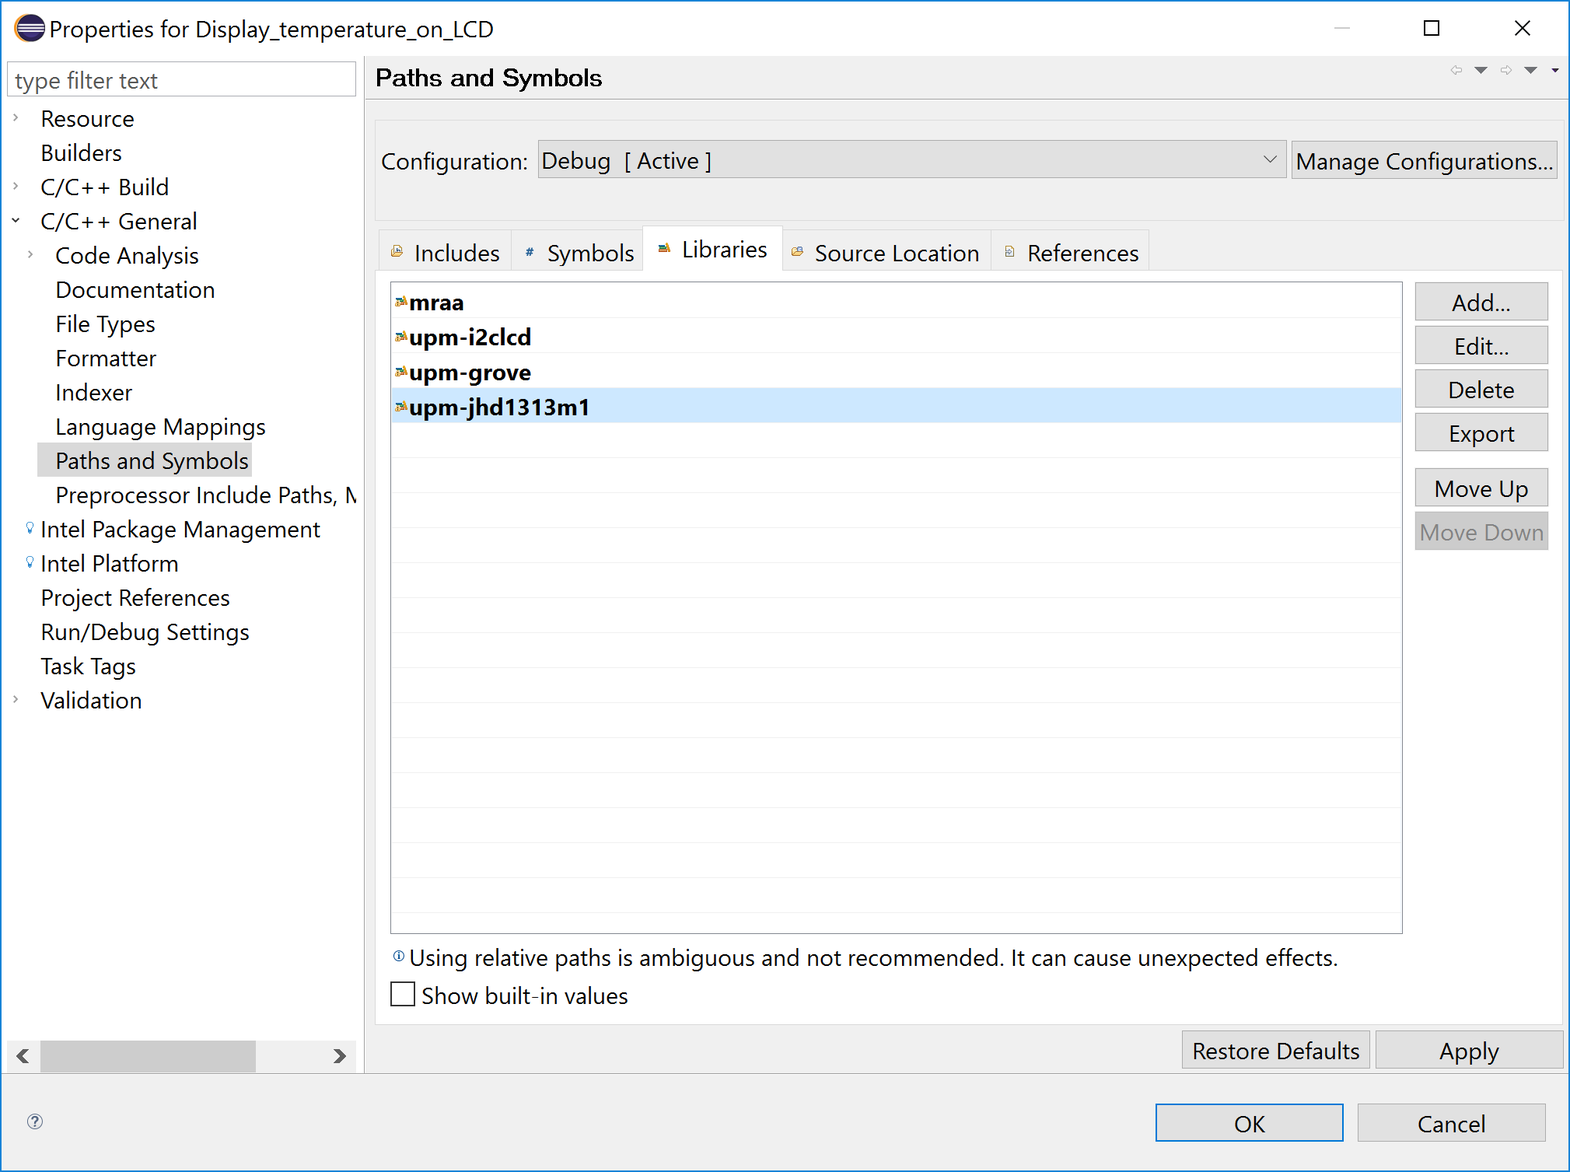
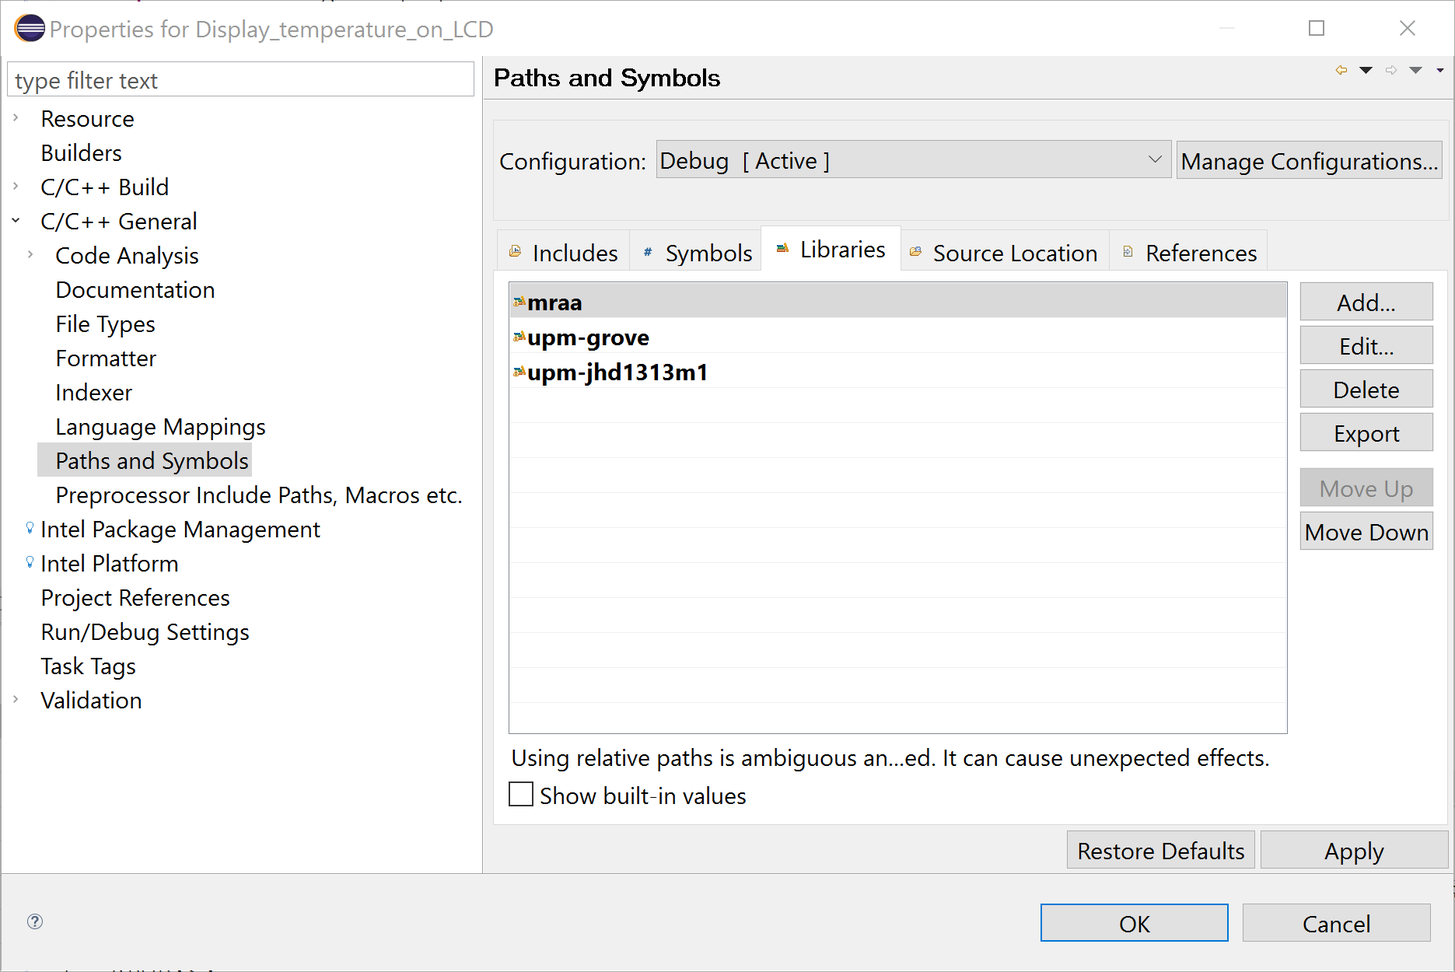
LCD updates and updates to Additional Resources in C++ and JavaScript labs

diff --git a/app/views/labs/sensors-javascript/index.html b/app/views/labs/sensors-javascript/index.html
@@ -423,7 +423,7 @@ monitor();</pre></ui-codemirror>
 
                         <li>
                             <p>Similar to using <code>require('jsupm_grove')</code> to include the JavaScript UPM library for the basic Grove components, <strong>include the UPM library for I2C-type LCDs</strong>:</p>
-                            <p><code>var LCD = require('jsupm_i2clcd');</code></p>
+                            <p><code>var LCD = require('jsupm_jhd1313m1');</code></p>
                         </li>
 
                         <li>
@@ -465,7 +465,7 @@ monitor();</pre></ui-codemirror>
                             <p>Below is an example of the final solution.</p>
                             <ui-codemirror ui-codemirror-opts="editorOptions"><pre class="brush:jscript;">// Include the JavaScript UPM libraries
 var groveSensor = require('jsupm_grove');
-var LCD = require("jsupm_i2clcd"); // Create a new instance of a Grove Temperature Sensor
+var LCD = require("jsupm_jhd1313m1"); // Create a new instance of a Grove Temperature Sensor
 var temp = new groveSensor.GroveTemp(0); // Create a new instance of a Grove RGB LCD screen
 var screen = new LCD.Jhd1313m1(0, 0x3E, 0x62);
 
@@ -532,7 +532,7 @@ monitor();</pre></ui-codemirror>
                     <ui-codemirror ui-codemirror-opts="editorOptions"><pre class="brush:jscript;">"use strict";
 var accelerometer = require("jsupm_mma7660");
 var accel = new accelerometer.MMA7660(0, 76),
-    screen = new(require("jsupm_i2clcd").Jhd1313m1)(6, 0x3E, 0x62); // enable 64 samples every 10 seconds
+    screen = new(require("jsupm_jhd1313m1").Jhd1313m1)(6, 0x3E, 0x62); // enable 64 samples every 10 seconds
 accel.setModeStandby();
 accel.setSampleRate(10);
 accel.setModeActive();
@@ -680,87 +680,70 @@ main();</pre></ui-codemirror>
                 </div>
             </div>
 
-            <div ibox title="Additional resources">
+            <div ibox collapse title="Additional resources">
+                <p>Information, community forums, articles, tutorials and more can be found at the <a href="https://software.intel.com/iot">Intel Developer Zone</a>.</p>
                 <p>For reference code for any sensor/actuator from the Grove Kit, visit <a href="https://software.intel.com/en-us/iot/hardware/sensors">https://software.intel.com/en-us/iot/hardware/sensors</a></p>
 
-                <h4>Grove Temperature Sensor</h4>
-
+                <h4>Sensors and Actuators APIs - UPM API Doxygen Reference</h4>
                 <ul>
-                    <li>
-                        <a href="http://www.seeedstudio.com/wiki/Grove_-_Temperature_Sensor_V1.2" target="_blank">Seeed Studio Wiki: Grove Temperature Sensor</a>
-                    </li>
-                    <li>
-                        <a href="http://iotdk.intel.com/docs/master/upm/node/classes/grovetemp.html#methods" target="_blank">UPM API - GroveTemp</a>
-                    </li>
-                    <li>
-                        <a href="https://github.com/intel-iot-devkit/upm/blob/master/examples/javascript/grovetemp.js" target="_blank">UPM JavaScript example: Grove Temperature Sensor</a>
-                    </li>
+                  <li><a href="https://iotdk.intel.com/docs/master/upm/">C++ Sensor/Actuator API libmraa (v1.5.1) and UPM (v1.0.2)</a></li>
+                  <li><a href="https://iotdk.intel.com/docs/master/upm/java/">Java Sensor/Actuator API libmraa (v1.5.1) and UPM (v1.0.2)</a></li>
+                  <li><a href="https://iotdk.intel.com/docs/master/upm/python/">Python Sensor/Actuator API libmraa (v1.5.1) and UPM (v1.0.2)</a></li>
+                  <li><a href="https://iotdk.intel.com/docs/master/upm/node/">NodeJS Sensor/Actuator API libmraa (v1.5.1) and UPM (v1.0.2)</a></li>
+                </ul>
+
+
+                <h4>Information on Sensors and Actuators</h4>
+                <ul>
+                  <li><a href="http://www.seeedstudio.com/wiki/Grove_-_Temperature_Sensor_V1.2">Seeed Studio Wiki: Grove Temperature Sensor</a></li>
+                  <li><a href="http://iotdk.intel.com/docs/master/upm/node/classes/grovetemp.html#methods">UPM API - GroveTemp</a></li>
+                  <li><a href="https://github.com/intel-iot-devkit/upm/blob/master/examples/c%2B%2B/grovetemp.cxx">UPM C++ example: Grove Temperature Sensor</a></li>
+                  <li><a href="https://github.com/intel-iot-devkit/upm/blob/master/examples/javascript/grovetemp.js">UPM JavaScript example: Grove Temperature Sensor</a></li>
+                </ul>
+
+
+                <h4>Grove Temperature Sensor</h4>
+                <ul>
+                  <li><a href="http://www.seeedstudio.com/wiki/Grove_-_Temperature_Sensor_V1.2" >Seeed Studio Wiki: Grove Temperature Sensor</a></li>
+                  <li><a href="http://iotdk.intel.com/docs/master/upm/node/classes/grovetemp.html#methods" >UPM API - GroveTemp</a></li>
+                  <li><a href="https://github.com/intel-iot-devkit/upm/blob/master/examples/c%2B%2B/grovetemp.cxx" >UPM C++ example: Grove Temperature Sensor</a></li>
+                  <li><a href="https://github.com/intel-iot-devkit/upm/blob/master/examples/javascript/grovetemp.js" >UPM JavaScript example: Grove Temperature Sensor</a></li>
                 </ul>
 
                 <h4>Grove LCD RGB Backlight</h4>
-
                 <ul>
-                    <li>
-                        <a href="http://www.seeedstudio.com/wiki/Grove_-_LCD_RGB_Backlight" target="_blank">Seeed Studio Wiki: LCD RGB Backlight</a>
-                    </li>
-                    <li>
-                        <a href="http://iotdk.intel.com/docs/master/upm/node/classes/lcd.html#methods" target="_blank">UPM API - i2clcd</a>
-                    </li>
-                    <li>
-                        <a href="http://iotdk.intel.com/docs/master/upm/node/classes/jhd1313m1.html#methods" target="_blank">UPM API - Jhd1313m1</a>
-                    </li>
-                    <li>
-                        <a href="https://github.com/intel-iot-devkit/upm/blob/master/examples/javascript/jhd1313m1-lcd.js" target="_blank">UPM JavaScript example: RGB LCD</a>
-                    </li>
+                  <li><a href="http://www.seeedstudio.com/wiki/Grove_-_LCD_RGB_Backlight" ``>Seeed Studio Wiki: LCD RGB Backlight</a></li>
+                  <li><a href="http://iotdk.intel.com/docs/master/upm/node/classes/lcd.html#methods" >UPM API - i2clcd</a></li>
+                  <li><a href="http://iotdk.intel.com/docs/master/upm/node/classes/jhd1313m1.html#methods" >UPM API Doxygen - Jhd1313m1</a></li>
+                  <li><a href="https://github.com/intel-iot-devkit/upm/blob/master/examples/c%2B%2B/jhd1313m1-lcd.cxx" >UPM API - Jhd1313m1</a></li>
+                  <li><a href="https://github.com/intel-iot-devkit/upm/blob/master/examples/javascript/jhd1313m1-lcd.js" >C++ example: RGB LCD</a></li>
                 </ul>
-
+            <!--
                 <h4>Accelerometer</h4>
                 <ul>
-                    <li>
-                        <a href="https://github.com/intel-iot-devkit/upm/blob/master/examples/javascript/mma7660.js">UPM JavaScript example: Accelerometer</a>
-                    </li>
-                    <li>
-                        <a href="http://www.seeedstudio.com/wiki/Grove_-_3-Axis_Digital_Accelerometer(%C2%B11.5g)">Seeed Studio Wiki: 3-Axis Digital Accelerometer</a>
-                    </li>
+                  <li><a href="https://github.com/intel-iot-devkit/upm/blob/master/examples/c%2B%2B/mma7660.cxx">UPM C++ example: Accelerometer</a></li>
+                  <li><a href="https://github.com/intel-iot-devkit/upm/blob/master/examples/javascript/mma7660.js">UPM JavaScript example: Accelerometer</a></li>
+                  <li><a href="http://www.seeedstudio.com/wiki/Grove_-_3-Axis_Digital_Accelerometer(%C2%B11.5g)">Seeed Studio Wiki: 3-Axis Digital Accelerometer</a></li>
                 </ul>
 
                 <h4>Rotary Angle Sensor</h4>
                 <ul>
-                    <li>
-                        <a href="https://github.com/intel-iot-devkit/upm/blob/master/examples/javascript/groverotary.js">UPM JavaScript example: Rotary Angle Sensor</a>
-                    </li>
-                    <li>
-                        <a href="http://www.seeedstudio.com/wiki/Grove_-_Rotary_Angle_Sensor">Seeed Studio Wiki: Rotary Angle Sensor</a>
-                    </li>
-                </ul>
+                  <li><a href="https://github.com/intel-iot-devkit/upm/blob/master/examples/javascript/groverotary.js">UPM JavaScript example: Rotary Angle Sensor</a></li>
+                  <li><a href="http://www.seeedstudio.com/wiki/Grove_-_Rotary_Angle_Sensor">Seeed Studio Wiki: Rotary Angle Sensor</a><li>
+                </ul> -->
 
                 <h4>Grove Button</h4>
                 <ul>
-                    <li>
-                        <a href="https://github.com/intel-iot-devkit/upm/blob/master/examples/javascript/grovebutton.js">UPM JavaScript example: Grove Button</a>
-                    </li>
-                    <li>
-                        <a href="http://www.seeedstudio.com/wiki/Grove_-_Button">Seeed Studio Wiki: Grove Button</a>
-                    </li>
+                  <li><a href="https://github.com/intel-iot-devkit/upm/blob/master/examples/javascript/grovebutton.js">UPM JavaScript example: Grove Button</a></li>
+                  <li><a href="http://www.seeedstudio.com/wiki/Grove_-_Button">Seeed Studio Wiki: Grove Button</a></li>
                 </ul>
 
-                <h4>Grove Buzzer</h4>
+                <!-- <h4>Grove Buzzer</h4>
                 <ul>
-                    <li>
-                        <a href="https://github.com/intel-iot-devkit/upm/blob/master/examples/javascript/buzzer.js">UPM JavaScript example: Buzzer</a>
-                    </li>
-                    <li>
-                        <a href="http://www.seeedstudio.com/wiki/Grove_-_Buzzer">Seeed Studio Wiki: Grove Buzzer</a>
-                    </li>
-                </ul>
-
-                <h4>JavaScript Libraries</h4>
-                <ul>
-                    <li><a href="http://expressjs.com/starter/hello-world.html">Express Hello World</a></li>
-                    <li><a href="http://momentjs.com/docs/">MomentJS</a></li>
-                </ul>
-            </div>
-        </div>
+                  <li><a href="https://github.com/intel-iot-devkit/upm/blob/master/examples/javascript/buzzer.js">UPM JavaScript example: Buzzer</a></li>
+                  <li><a href="http://www.seeedstudio.com/wiki/Grove_-_Buzzer">Seeed Studio Wiki: Grove Buzzer</a></li>
+                </ul> -->
+            </div>        </div>
     </div>
   </div>
 </div>

diff --git a/app/views/labs/sensors-c/index.html b/app/views/labs/sensors-c/index.html
@@ -127,8 +127,8 @@
                 <ol>
                   <li>Go to <b>C/C++ General</b> --> <b>Paths and Symbols</b></li>
                   <li>Then click on the <b>Libraries</b> tab.</p></li>
-                  <li>Click on the Add button that is to the right</li>
-                  <li>type <b>upm-jhd1313m1</b></li>
+                  <li>Click on the Add button that is to the right and type <b>upm-jhd1313m1</b></li>
+                  <li>Next, be sure to delete the upm-i2clcd driver</li>
                   <li>Press <b>OK</b> until you are back at the main interface</li>
                 </ol>
               </div>
@@ -162,84 +162,68 @@
             </div>
 
             <div ibox collapse title="Additional resources">
+                <p>Information, community forums, articles, tutorials and more can be found at the <a href="https://software.intel.com/iot">Intel Developer Zone</a>.</p>
                 <p>For reference code for any sensor/actuator from the Grove Kit, visit <a href="https://software.intel.com/en-us/iot/hardware/sensors">https://software.intel.com/en-us/iot/hardware/sensors</a></p>
 
-                <h4>Grove Temperature Sensor</h4>
-
+                <h4>Sensors and Actuators APIs - UPM API Doxygen Reference</h4>
                 <ul>
-                    <li>
-                        <a href="http://www.seeedstudio.com/wiki/Grove_-_Temperature_Sensor_V1.2" target="_blank">Seeed Studio Wiki: Grove Temperature Sensor</a>
-                    </li>
-                    <li>
-                        <a href="http://iotdk.intel.com/docs/master/upm/node/classes/grovetemp.html#methods" target="_blank">UPM API - GroveTemp</a>
-                    </li>
-                    <li>
-                        <a href="https://github.com/intel-iot-devkit/upm/blob/master/examples/javascript/grovetemp.js" target="_blank">UPM JavaScript example: Grove Temperature Sensor</a>
-                    </li>
+                  <li><a href="https://iotdk.intel.com/docs/master/upm/">C++ Sensor/Actuator API libmraa (v1.5.1) and UPM (v1.0.2)</a></li>
+                  <li><a href="https://iotdk.intel.com/docs/master/upm/java/">Java Sensor/Actuator API libmraa (v1.5.1) and UPM (v1.0.2)</a></li>
+                  <li><a href="https://iotdk.intel.com/docs/master/upm/python/">Python Sensor/Actuator API libmraa (v1.5.1) and UPM (v1.0.2)</a></li>
+                  <li><a href="https://iotdk.intel.com/docs/master/upm/node/">NodeJS Sensor/Actuator API libmraa (v1.5.1) and UPM (v1.0.2)</a></li>
+                </ul>
+
+
+                <h4>Information on Sensors and Actuators</h4>
+                <ul>
+                  <li><a href="http://www.seeedstudio.com/wiki/Grove_-_Temperature_Sensor_V1.2">Seeed Studio Wiki: Grove Temperature Sensor</a></li>
+                  <li><a href="http://iotdk.intel.com/docs/master/upm/node/classes/grovetemp.html#methods">UPM API - GroveTemp</a></li>
+                  <li><a href="https://github.com/intel-iot-devkit/upm/blob/master/examples/c%2B%2B/grovetemp.cxx">UPM C++ example: Grove Temperature Sensor</a></li>
+                  <li><a href="https://github.com/intel-iot-devkit/upm/blob/master/examples/javascript/grovetemp.js">UPM JavaScript example: Grove Temperature Sensor</a></li>
+                </ul>
+
+
+                <h4>Grove Temperature Sensor</h4>
+                <ul>
+                  <li><a href="http://www.seeedstudio.com/wiki/Grove_-_Temperature_Sensor_V1.2" >Seeed Studio Wiki: Grove Temperature Sensor</a></li>
+                  <li><a href="http://iotdk.intel.com/docs/master/upm/node/classes/grovetemp.html#methods" >UPM API - GroveTemp</a></li>
+                  <li><a href="https://github.com/intel-iot-devkit/upm/blob/master/examples/c%2B%2B/grovetemp.cxx" >UPM C++ example: Grove Temperature Sensor</a></li>
+                  <li><a href="https://github.com/intel-iot-devkit/upm/blob/master/examples/javascript/grovetemp.js" >UPM JavaScript example: Grove Temperature Sensor</a></li>
                 </ul>
 
                 <h4>Grove LCD RGB Backlight</h4>
-
                 <ul>
-                    <li>
-                        <a href="http://www.seeedstudio.com/wiki/Grove_-_LCD_RGB_Backlight" target="_blank">Seeed Studio Wiki: LCD RGB Backlight</a>
-                    </li>
-                    <li>
-                        <a href="http://iotdk.intel.com/docs/master/upm/node/classes/lcd.html#methods" target="_blank">UPM API - i2clcd</a>
-                    </li>
-                    <li>
-                        <a href="http://iotdk.intel.com/docs/master/upm/node/classes/jhd1313m1.html#methods" target="_blank">UPM API - Jhd1313m1</a>
-                    </li>
-                    <li>
-                        <a href="https://github.com/intel-iot-devkit/upm/blob/master/examples/javascript/jhd1313m1-lcd.js" target="_blank">UPM JavaScript example: RGB LCD</a>
-                    </li>
+                  <li><a href="http://www.seeedstudio.com/wiki/Grove_-_LCD_RGB_Backlight" ``>Seeed Studio Wiki: LCD RGB Backlight</a></li>
+                  <li><a href="http://iotdk.intel.com/docs/master/upm/node/classes/lcd.html#methods" >UPM API - i2clcd</a></li>
+                  <li><a href="http://iotdk.intel.com/docs/master/upm/node/classes/jhd1313m1.html#methods" >UPM API Doxygen - Jhd1313m1</a></li>
+                  <li><a href="https://github.com/intel-iot-devkit/upm/blob/master/examples/c%2B%2B/jhd1313m1-lcd.cxx" >UPM API - Jhd1313m1</a></li>
+                  <li><a href="https://github.com/intel-iot-devkit/upm/blob/master/examples/javascript/jhd1313m1-lcd.js" >C++ example: RGB LCD</a></li>
                 </ul>
-
+<!-- 
                 <h4>Accelerometer</h4>
                 <ul>
-                    <li>
-                        <a href="https://github.com/intel-iot-devkit/upm/blob/master/examples/javascript/mma7660.js">UPM JavaScript example: Accelerometer</a>
-                    </li>
-                    <li>
-                        <a href="http://www.seeedstudio.com/wiki/Grove_-_3-Axis_Digital_Accelerometer(%C2%B11.5g)">Seeed Studio Wiki: 3-Axis Digital Accelerometer</a>
-                    </li>
+                  <li><a href="https://github.com/intel-iot-devkit/upm/blob/master/examples/c%2B%2B/mma7660.cxx">UPM C++ example: Accelerometer</a></li>
+                  <li><a href="https://github.com/intel-iot-devkit/upm/blob/master/examples/javascript/mma7660.js">UPM JavaScript example: Accelerometer</a></li>
+                  <li><a href="http://www.seeedstudio.com/wiki/Grove_-_3-Axis_Digital_Accelerometer(%C2%B11.5g)">Seeed Studio Wiki: 3-Axis Digital Accelerometer</a></li>
                 </ul>
 
                 <h4>Rotary Angle Sensor</h4>
                 <ul>
-                    <li>
-                        <a href="https://github.com/intel-iot-devkit/upm/blob/master/examples/javascript/groverotary.js">UPM JavaScript example: Rotary Angle Sensor</a>
-                    </li>
-                    <li>
-                        <a href="http://www.seeedstudio.com/wiki/Grove_-_Rotary_Angle_Sensor">Seeed Studio Wiki: Rotary Angle Sensor</a>
-                    </li>
-                </ul>
+                  <li><a href="https://github.com/intel-iot-devkit/upm/blob/master/examples/javascript/groverotary.js">UPM JavaScript example: Rotary Angle Sensor</a></li>
+                  <li><a href="http://www.seeedstudio.com/wiki/Grove_-_Rotary_Angle_Sensor">Seeed Studio Wiki: Rotary Angle Sensor</a><li>
+                </ul> -->
 
                 <h4>Grove Button</h4>
                 <ul>
-                    <li>
-                        <a href="https://github.com/intel-iot-devkit/upm/blob/master/examples/javascript/grovebutton.js">UPM JavaScript example: Grove Button</a>
-                    </li>
-                    <li>
-                        <a href="http://www.seeedstudio.com/wiki/Grove_-_Button">Seeed Studio Wiki: Grove Button</a>
-                    </li>
+                  <li><a href="https://github.com/intel-iot-devkit/upm/blob/master/examples/javascript/grovebutton.js">UPM JavaScript example: Grove Button</a></li>
+                  <li><a href="http://www.seeedstudio.com/wiki/Grove_-_Button">Seeed Studio Wiki: Grove Button</a></li>
                 </ul>
 
-                <h4>Grove Buzzer</h4>
+                <!-- <h4>Grove Buzzer</h4>
                 <ul>
-                    <li>
-                        <a href="https://github.com/intel-iot-devkit/upm/blob/master/examples/javascript/buzzer.js">UPM JavaScript example: Buzzer</a>
-                    </li>
-                    <li>
-                        <a href="http://www.seeedstudio.com/wiki/Grove_-_Buzzer">Seeed Studio Wiki: Grove Buzzer</a>
-                    </li>
-                </ul>
-
-                <h4>JavaScript Libraries</h4>
-                <ul>
-                    <li><a href="http://expressjs.com/starter/hello-world.html">Express Hello World</a></li>
-                    <li><a href="http://momentjs.com/docs/">MomentJS</a></li>
-                </ul>
+                  <li><a href="https://github.com/intel-iot-devkit/upm/blob/master/examples/javascript/buzzer.js">UPM JavaScript example: Buzzer</a></li>
+                  <li><a href="http://www.seeedstudio.com/wiki/Grove_-_Buzzer">Seeed Studio Wiki: Grove Buzzer</a></li>
+                </ul> -->
             </div>
         </div>
     </div>

diff --git a/app/views/labs/sensors-java/index.html b/app/views/labs/sensors-java/index.html
@@ -110,7 +110,7 @@
               <p>Notice the different windows that are available for you to help you write code productively.</p>
             </div>
 
-            <div content-block name="iss-add-platform-check" message="Explore the Intel System Studio Environment" image-link="./views/labs/sensors-java/images/iss-add-gateway-platform-check.png">
+            <div content-block name="iss-add-platform-check" message="Modify the sample program to include a platform check for the Intel IoT Gateway" image-link="./views/labs/sensors-java/images/iss-add-gateway-platform-check.png">
               <p>Notice that this example checks to be sure on you running on a known platform.  Please update this by <b>replacing lines 137-144</b> with this new code.</p>
 
               <ui-codemirror ui-codemirror-opts="editorOptions"><pre class="brush:jscript;">        Platform platform = mraa.getPlatformType();
@@ -123,7 +123,7 @@
         }<pre></ui-codemirror>
             </div>
 
-            <div content-block name="iss-new-project-64" message="Modify example to use Firmata Offset" image-link="./views/labs/sensors-java/images/iss-temperature-sample.png">
+            <div content-block name="iss-new-project-64" message="Modify example to use Firmata Offset" image-link="./views/labs/sensors-java/images/iss-java-offset.png">
               <p>If you are using an Arduino 101 that is attached to an Intel IoT Gateway with a USB cable then you are using Firmata and we need to modify this the GPIO pins with an offset.</p>
             </div>
 
@@ -132,7 +132,7 @@
 
               <p>UPM supports more than 300 types of sensors and actuators and it is an active open source project available on Github.</p>
 
-              <p>Here is the link to the source code for <a href="https://github.com/intel-iot-devkit/upm">UPM on Github</a>.</p>
+              <p>Here is the link to the source code for <a href="https://github.com/intel-iot-devkit/upm">UPM on Github</a>.</p> 
               <p class="alert alert-warning">The UPM source code repository has many <a href="https://github.com/intel-iot-devkit/upm/tree/master/examples">examples</a> for many sensors and actuators. Examples are given in C, C++, JavaScript, Java and Python.</p>
             </div>
 

diff --git a/app/views/labs/protocols/index.html b/app/views/labs/protocols/index.html
@@ -396,11 +396,13 @@ return msg;</pre></ui-codemirror>
                     <p>In this exercise, you will create a restful HTTP API to control an actuator (LCD Screen) deployed on an edge network. Use the http node to create a flow that controls the LCD with web requests.</p>
                 </div>
 
-                <div content-block name="restful-api-node-red-flow" message="Open Node Red Flow Editor and create a new flow" image-link="./views/labs/protocols/images/image_3.png ">
+                <div content-block name="restful-api-node-red-flow" message="Open Node Red Flow Editor and create a new flow" image-link="./views/labs/protocols/images/http-text-color-apis.png">
                     <h2 class="labHidden">Open Node Red Flow Editor and create a new flow</h2>
+
+                    <p>The
                     <h3>Open Node Red Flow Editor and create a new flow</h3>
 
-                    <p>Copy following Node-Red modules to the Node red flow editor</p>
+                    <p>Each API defined in this new Node-Red flow will contains the following nodes:</p>
                     <ul>
                       <li>http input</li>
                       <li>function</li>

diff --git a/app/views/labs/automation/index.html b/app/views/labs/automation/index.html
@@ -22,7 +22,7 @@
           <!-- Objectives -->
           <div ibox title="Objectives">
             <div content-block name="automation-objectives" message="Read the Objectives">
-<h2 class="labHidden">Read the Objectives</h2>
+              <h2 class="labHidden">Read the Objectives</h2>
               <labels gateway window apple linux/>
               <p>By the end of this module, you should be able to:</p>
 
